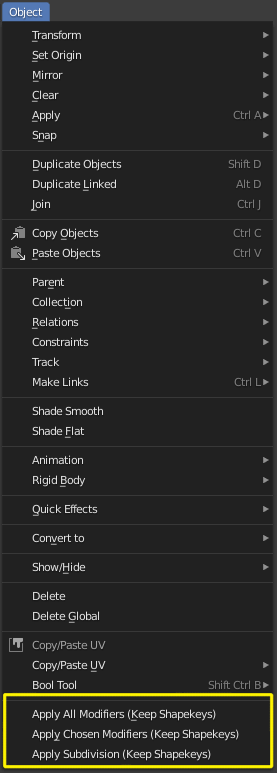
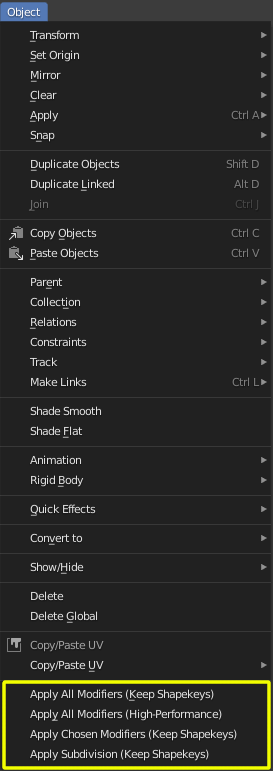
bump version to 1.5, update gui menu image for readme

diff --git a/__init__.py b/__init__.py
@@ -21,7 +21,7 @@
 bl_info = {
         "name": "SKkeeper",
         "author": "Johannes Rauch",
-        "version": (1, 4),
+        "version": (1, 5),
         "blender": (2, 80, 3),
         "location": "Search > Apply modifiers (Keep Shapekeys)",
         "description": "Applies modifiers and keeps shapekeys",
